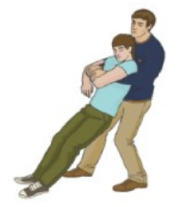
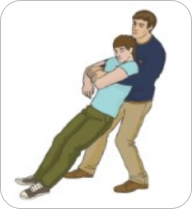
MedicalSupport.js is done.(360px)

diff --git a/src/components/medicalSupport/BlockForMedicalSupport/BlockForMedicalSupport.scss b/src/components/medicalSupport/BlockForMedicalSupport/BlockForMedicalSupport.scss
@@ -10,22 +10,23 @@
   box-shadow: 0 4px 20px 0 #A9BDCE40;
   color: #FFFFFF;
   max-width: 970px;
-
+  padding: 15px 0;
   &_imgs{
     max-width: 380px;
-    height: 247px;
+    height: fit-content;
     display: flex;
     flex-direction: row;
     justify-content: flex-end;
     align-items: center;
     margin: 0 15px;
+    outline: 1px solid #BDBDBD;
+    border-radius: 20px;
     img{
       width: 190px;
       height: 207px;
     }
   }
   &_text{
-    margin-top: 15px;
     max-width: 760px;
     width: 77%;
     h3{
@@ -50,17 +51,19 @@
     }
   }
 }
+
 @media (max-width: 360px) {
-  .BlockForMedicalSupport{
+  .BlockForMedicalSupport {
     flex-wrap: wrap;
   }
-  .BlockForMedicalSupport_text{
+  .BlockForMedicalSupport_text {
     width: 100%;
     padding: 0 20px;
   }
-  .BlockForMedicalSupport_imgs{
-    margin-top: 10px;
+  .BlockForMedicalSupport_imgs {
+    margin-bottom: 10px;
     height: 100%;
+    flex-direction: column;
     justify-content: flex-start;
     flex-wrap: wrap;
   }

diff --git a/src/components/medicalSupport/MediaMedicalSupport.scss b/src/components/medicalSupport/MediaMedicalSupport.scss
@@ -90,15 +90,31 @@
     font-weight: 600;
     line-height: 31px;
   }
-  .fifth_section_MedicalSupport_block_left img{
-    margin: 30px auto 30px;
-    display: block;
-    max-width: 320px;
-    height: 167px;
+  .fifth_section_MedicalSupport_block_left {
+    img {
+      margin: 15px auto;
+      display: block;
+      max-width: 320px;
+    }
   }
-  .fifth_section_MedicalSupport_block_right h2{
+  .fifth_section_MedicalSupport_block_right h2 {
     font-size: 24px;
     font-weight: 600;
     line-height: 31px;
+  }
+  .align_img{
+    img{
+      margin-left: 0%;
+    }
+  }
+  .fifth_section_MedicalSupport_block_left_group_imgs{
+    display: flex;
+    flex-direction: row;
+    justify-content: space-between;
+    img{
+      width: 150px;
+      height: 110px;
+      margin: 15px 0;
+    }
   }
 }

diff --git a/src/components/medicalSupport/BlockForMedicalSupport/BlockForMedicalSupport.css b/src/components/medicalSupport/BlockForMedicalSupport/BlockForMedicalSupport.css
@@ -8,22 +8,24 @@
   box-shadow: 0 4px 20px 0 rgba(169, 189, 206, 0.2509803922);
   color: #FFFFFF;
   max-width: 970px;
+  padding: 15px 0;
 }
 .BlockForMedicalSupport_imgs {
   max-width: 380px;
-  height: 247px;
+  height: fit-content;
   display: flex;
   flex-direction: row;
   justify-content: flex-end;
   align-items: center;
   margin: 0 15px;
+  outline: 1px solid #BDBDBD;
+  border-radius: 20px;
 }
 .BlockForMedicalSupport_imgs img {
   width: 190px;
   height: 207px;
 }
 .BlockForMedicalSupport_text {
-  margin-top: 15px;
   max-width: 760px;
   width: 77%;
 }
@@ -57,8 +59,9 @@
     padding: 0 20px;
   }
   .BlockForMedicalSupport_imgs {
-    margin-top: 10px;
+    margin-bottom: 10px;
     height: 100%;
+    flex-direction: column;
     justify-content: flex-start;
     flex-wrap: wrap;
   }

diff --git a/src/components/medicalSupport/MediaMedicalSupport.css b/src/components/medicalSupport/MediaMedicalSupport.css
@@ -87,15 +87,27 @@
     line-height: 31px;
   }
   .fifth_section_MedicalSupport_block_left img {
-    margin: 30px auto 30px;
+    margin: 15px auto;
     display: block;
     max-width: 320px;
-    height: 167px;
   }
   .fifth_section_MedicalSupport_block_right h2 {
     font-size: 24px;
     font-weight: 600;
     line-height: 31px;
+  }
+  .align_img img {
+    margin-left: 0%;
+  }
+  .fifth_section_MedicalSupport_block_left_group_imgs {
+    display: flex;
+    flex-direction: row;
+    justify-content: space-between;
+  }
+  .fifth_section_MedicalSupport_block_left_group_imgs img {
+    width: 150px;
+    height: 110px;
+    margin: 15px 0;
   }
 }
 

diff --git a/src/components/medicalSupport/BlockForMedicalSupport/BlockForMedicalSupport.js b/src/components/medicalSupport/BlockForMedicalSupport/BlockForMedicalSupport.js
@@ -8,12 +8,14 @@ function BlockForMedicalSupport({data}) {
             {data.map(item => (
                 <div key={item.id} className="BlockForMedicalSupport">
                     <div className="BlockForMedicalSupport_imgs">
-                        {/*<img src={item.img} alt=""/>*/}
+
                         {
                             item.img.map( item =>
                                 <img key={item}  src={item} alt="BlockForMedicalSupport_imgs"/>
                             )
+
                         }
+
                     </div>
 
                     <div className="BlockForMedicalSupport_text">

diff --git a/src/components/medicalSupport/MedicalSupport.js b/src/components/medicalSupport/MedicalSupport.js
@@ -412,7 +412,7 @@ function MedicalSupport() {
                         </div>
                     </div>
                     <div className="fifth_section_MedicalSupport_block">
-                        <div className="fifth_section_MedicalSupport_block_left">
+                        <div className="fifth_section_MedicalSupport_block_left fifth_section_MedicalSupport_block_left_group_imgs">
                             <img src={img16} alt="MedicalSupport"/>
                             <img src={img17} alt="MedicalSupport"/>
                         </div>

diff --git a/src/components/medicalSupport/MedicalSupport.scss b/src/components/medicalSupport/MedicalSupport.scss
@@ -72,7 +72,6 @@
         margin-right: 10px;
       }
       li span {
-        //display: block;
         font-family: $font-family, sans-serif;
         font-size: 17px;
         font-weight: 400;
@@ -238,7 +237,7 @@
 
     &_left {
       display: flex;
-      align-items: flex-end;
+      align-items: flex-start;
 
       img {
         width: 420px;

diff --git a/src/components/footer/MediaFooter.css b/src/components/footer/MediaFooter.css
@@ -1,6 +1,9 @@
 @media (max-width: 360px) {
   .footer {
-    margin-top: 100px;
+    margin-top: 40px;
+    padding-top: 30px;
+    background-color: #FFFFFF;
+    box-shadow: 0px 4px 30px 0px rgba(169, 189, 206, 0.2509803922);
   }
   .footer_first_section {
     flex-wrap: wrap;

diff --git a/src/components/footer/MediaFooter.scss b/src/components/footer/MediaFooter.scss
@@ -1,6 +1,9 @@
 @media (max-width: 360px) {
   .footer{
-    margin-top: 100px;
+    margin-top: 40px;
+    padding-top: 30px;
+    background-color: #FFFFFF;
+    box-shadow: 0px 4px 30px 0px #A9BDCE40;
   }
   .footer_first_section{
     flex-wrap: wrap;

diff --git a/src/components/medicalSupport/MedicalSupport.css b/src/components/medicalSupport/MedicalSupport.css
@@ -212,7 +212,7 @@
 }
 .forth_section_MedicalSupport_first_block_left {
   display: flex;
-  align-items: flex-end;
+  align-items: flex-start;
 }
 .forth_section_MedicalSupport_first_block_left img {
   width: 420px;

diff --git a/src/components/footer/Footer.scss b/src/components/footer/Footer.scss
@@ -22,7 +22,7 @@
       content: "";
       max-height: 400px;
       height: 150%;
-      width: 200%;
+      width: 500%;
       background: #FFFFFF;
       position: absolute;
       top: -20%;

diff --git a/src/components/footer/Footer.css b/src/components/footer/Footer.css
@@ -20,7 +20,7 @@
   content: "";
   max-height: 400px;
   height: 150%;
-  width: 200%;
+  width: 500%;
   background: #FFFFFF;
   position: absolute;
   top: -20%;
